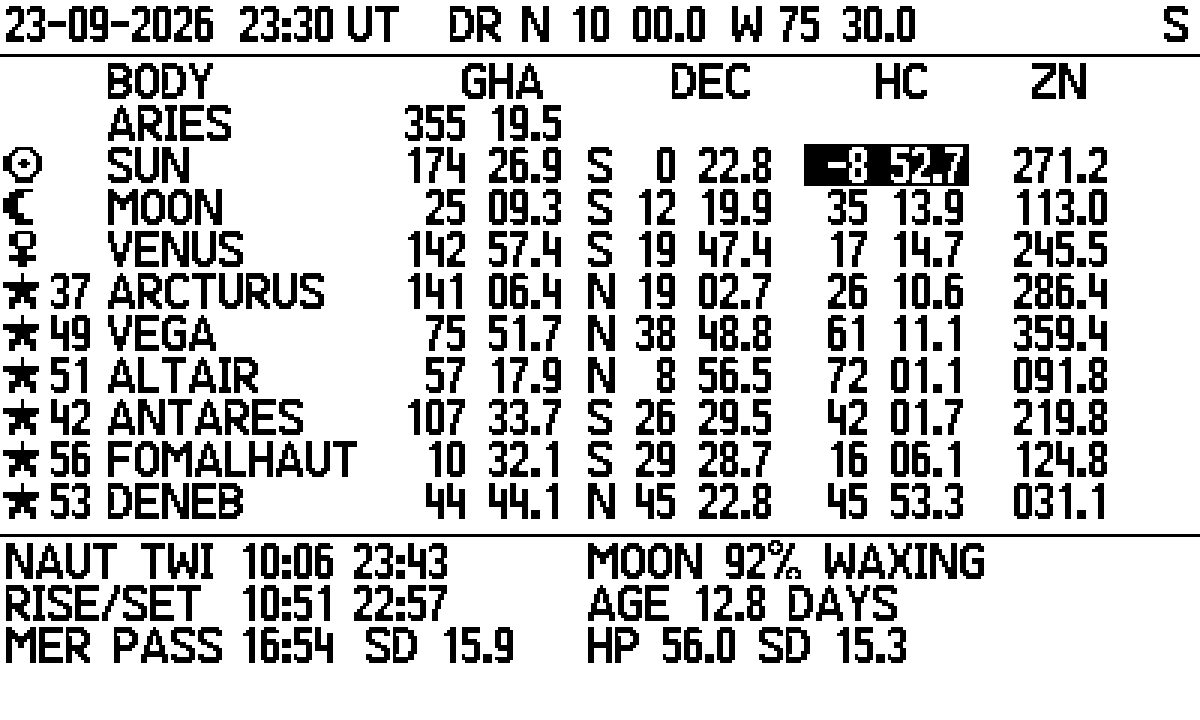
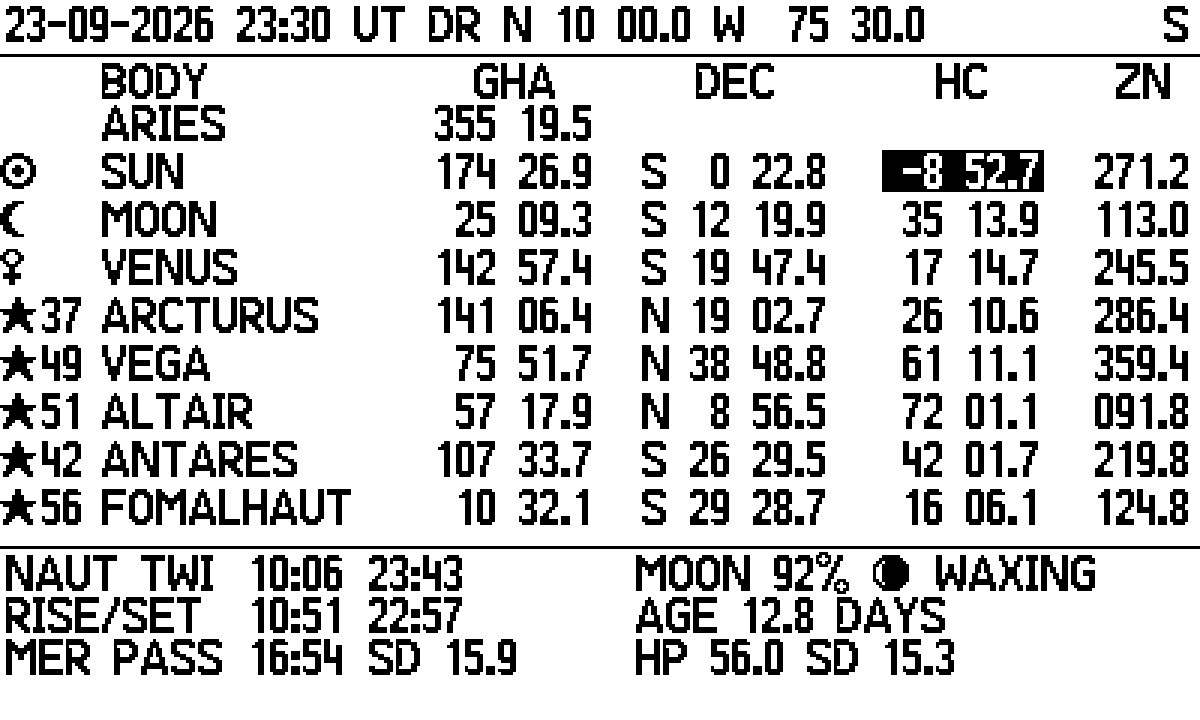
Manual: the ATEXT screens, firmware with ATEXT and GRFNT (#33)
- tools/generators/nav_shots.py: the NAV pictures of the manual (menu, box, INFO, the six views)
  from build/NAVFULL run in the C47 simulator; docs/*.png regenerated (NAV_info unchanged).
- First start: a firmware with ATEXT and GRFNT, conversion with tools/rejig47_atext.py.
- Captions of the views for the new screens (8 bodies, one time and place, SKY names).
- Part 2: its programs use AGRAPH fonts, the NAV files ATEXT. Program map: text and symbol
  routines left out, TGET is N49.

diff --git a/tools/generators/manual_nav.py b/tools/generators/manual_nav.py
@@ -45,7 +45,10 @@ S += [P('Almanac 47', title),
                         'Sun and 58 stars only, with NAVINIT_LITTLE (2000–2050)']],
           [32 * mm, 148 * mm]),
       P('2. First start', h2)] + B([
-      'Convert each text file with <b>rejig</b> (rejig FILE.txt -o FILE.p47) and load it on the C47.',
+      'The C47 needs a firmware with <b>ATEXT</b> and <b>GRFNT</b>: the screens write their text with ATEXT in '
+      'GRFNT 21 (the tinyFont, GRFNT 10, on the charts); only the body symbols are drawn with AGRAPH.',
+      'Convert each text file with <b>python3 tools/rejig47_atext.py FILE.txt</b> (runs rejig and writes the ATEXT / '
+      'GRFNT steps rejig 0.34 does not know; a rejig that knows them converts directly) and load the .p47 on the C47.',
       'The file name is the version: on the calculator the programs are always NAV and INIT. Other builds '
       '(NAVFULL_NOTBL, NAVALL, NAVCOMP) are in build/dev/.',
       'Load one NAV file and one NAVINIT file. <b>XEQ "INIT"</b> once: it builds the matrices and shows MATRICES READY. '
@@ -82,22 +85,23 @@ S += [P('3. Starting NAV', h2),
       P('The hours added with the arrows stay for the other views. New date or position: XEQ "NAV" again.', small)]
 
 S += [PageBreak(), P('5. The views', h2),
-      P('All examples: 26 Sep 2026 14:57 UT, 25° 20′ N 055° 12′ E, unless stated.', small),
+      P('All views: 23 Sep 2026 23:30 UT, 10° N 075° 30′ W (the menu: 26 Sep 2026 14:57 UT, 25° 20′ N 055° 12′ E). '
+        'Every view starts with the same line: date, UT, DR, and T / S (tables / series) at the right.', small),
       pair('ALMF_preview.png', 'HALMV_preview.png',
-           '<b>1 ALMANAC</b> (ALMF): GHA, Dec, Hc, Zn of 10 bodies — the Sun, the Moon and planets above the horizon, '
-           'the brightest stars higher than 10°; twilight, rise/set, meridian passage, Moon phase, HP, SD. '
-           '23 Sep 2026 23:30 UT, 10° N 075° 30′ W.',
+           '<b>1 ALMANAC</b> (ALMF): GHA ARIES, then GHA, Dec, Hc, Zn of 8 bodies — the Sun, the Moon if it is up, '
+           'the first planet above the horizon, the brightest stars higher than 10°; twilight, rise/set, meridian '
+           'passage, the Moon (lit part, phase symbol, age, HP, SD).',
            '<b>2 CHART</b> (HALMV): the sky on the left (Hc up, Zn across, the celestial equator dotted), '
-           'the Hc/Zn table on the right (no ARIES row, no Moon line). Same time and place.'),
+           'the Hc/Zn table of the same 8 bodies on the right.'),
       Spacer(1, 4),
       pair('HORZ_axes_night.png', 'HALMH_preview.png',
-           '<b>4 SKY</b> (HORZ): full-screen chart; the top line names each body in turn (3 s each), UT at the top right, '
-           'DR under it. 23 Sep 2026 03:00 UT, 30° N 0° E.',
-           '<b>5 SPLIT</b> (HALMH): the chart on top, the bodies below down to the bottom of the screen (8 rows). '
-           '26 Sep 2026 14:57 UT, 25° 20′ N 055° 12′ E.'),
+           '<b>4 SKY</b> (HORZ): full-screen chart of the 8 bodies; every second the name of the next one is written '
+           'next to its symbol (here MOON); DAY / TWILIGHT / NIGHT at the bottom.',
+           '<b>5 SPLIT</b> (HALMH): the chart on top, the bodies below down to the bottom of the screen (8 rows).'),
       Spacer(1, 4),
       pair('ANIM_preview.png', 'ALLSKY_preview.png',
-           '<b>6 ANIM</b> (HANIM): the Sun and the Moon moving over 12 hours (24 frames, 1 s each).',
+           '<b>6 ANIM</b> (HANIM): the Sun and the Moon moving on the whole-sky chart over 12 hours (24 frames, '
+           '1 s each, 30 min apart); the first frame.',
            '<b>7 ALLSKY</b>: the whole sky, over the horizon above, under the horizon below: every star, '
            'the Sun, the Moon and the planets; DAY / TWILIGHT / NIGHT.'),
       Spacer(1, 4),

diff --git a/tools/generators/nav_shots.py b/tools/generators/nav_shots.py
@@ -1,0 +1,89 @@
+#!/usr/bin/env python3
+"""nav_shots.py - the pictures of the NAV screens in the C47 manual (docs/), from build/NAVFULL.txt
+run in the C47 simulator (python/c47sim.py): the screens of Oct 2026, text with ATEXT in GRFNT 21.
+
+  NAV_menu.png, NAV_info.png, NAV_busy_box.png      800 x 480, grey (2 x)
+  ALMF_preview.png HALMV_preview.png HORZ_axes_night.png HALMH_preview.png
+  ANIM_preview.png ALLSKY_preview.png                1200 x 720, black on white (3 x)
+
+  python3 tools/generators/nav_shots.py
+"""
+import os, sys, tempfile
+from decimal import Decimal as D
+from PIL import Image
+
+HERE = os.path.dirname(os.path.abspath(__file__))
+ROOT = os.path.dirname(os.path.dirname(HERE))
+sys.path[:0] = [os.path.join(ROOT, 'python'), HERE]
+import c47sim, gennav
+
+DOCS = os.path.join(ROOT, 'docs')
+NAV = os.path.join(ROOT, 'build', 'NAVFULL.txt')
+INIT = os.path.join(ROOT, 'build', 'NAVINIT_FULL.txt')
+MENU_CASE = ('2026.0926', '14.57', '25.20', '55.12')        # the menu, INFO and the box
+VIEW_CASE = ('2026.0923', '23.30', '10.00', '-75.30')       # the views
+# view: its menu key; the frames are the menu, the view, the menu again
+VIEWS = {'ALMF_preview': 72, 'HALMV_preview': 73, 'HORZ_axes_night': 62, 'HALMH_preview': 63,
+         'ANIM_preview': 64, 'ALLSKY_preview': 52}
+
+
+def split(path):
+    progs, cur = [], []
+    for l in open(path, encoding='utf-8').read().split('\n'):
+        if not l.strip():
+            continue
+        cur.append(l)
+        if l == 'END':
+            progs.append(cur); cur = []
+    return progs
+
+
+def run(case, keys, box=False, maxpauses=None, keyskip=False):
+    """NAV with the keys; the frames as sets of (x, row), row 0 at the top. box: the SINKING box
+    makes a frame of its own (its PAUSE 0 becomes PAUSE 2). keyskip: the views run on without a key
+    (SKY writes the next name every second)."""
+    progs = split(INIT) + split(NAV)
+    if box:
+        nav = progs[len(split(INIT))]
+        i = nav.index('LBL 52')
+        j = nav.index('PAUSE 0', i)
+        nav[j] = 'PAUSE 2'
+    t = tempfile.mkdtemp(); files = []
+    for i, pr in enumerate(progs):
+        f = os.path.join(t, 'p%d.txt' % i); open(f, 'w').write('\n'.join(pr) + '\n'); files.append(f)
+    c = c47sim.load(files); c.flags.add(82)
+    c.run('INIT', maxsteps=10 ** 7); c.flags.add(81)
+    for k, v in zip(('DATE', 'UTC', 'LAT', 'LON'), case):
+        c.reg[k] = D(v)
+    c.s = [D(0)] * 4; c.frames = []; c.pix = []; c.keys = list(keys); c.maxpauses = maxpauses; c.keyskip = keyskip
+    try:
+        c.run('NAV', maxsteps=10 ** 8)
+    except StopIteration:
+        pass
+    return [{(x, 239 - y) for y, x in f if 0 <= y < 240 and 0 <= x < 400} for f in c.frames]
+
+
+def save(frame, name, scale, on, off, mode):
+    im = Image.new(mode, (400, 240), off)
+    for x, r in frame:
+        im.putpixel((x, r), on)
+    im.resize((400 * scale, 240 * scale), Image.NEAREST).save(os.path.join(DOCS, name + '.png'))
+    print('docs/%s.png' % name)
+
+
+def main():
+    grey = dict(scale=2, on=20, off=220, mode='L')
+    view = dict(scale=3, on=(0, 0, 0), off=(255, 255, 255), mode='RGB')
+    save(run(MENU_CASE, [82])[0], 'NAV_menu', **grey)
+    save(run(MENU_CASE, [53, 85, 82])[1], 'NAV_info', **grey)
+    fr = run(MENU_CASE, [gennav.DOWN, 82], box=True)   # the box at the start, the menu, the box over it (DOWN), ...
+    save(fr[2], 'NAV_busy_box', **grey)
+    for name, key in VIEWS.items():
+        if key == 62:                                  # SKY: the chart, then the first name next to its body
+            save(run(VIEW_CASE, [key], maxpauses=3, keyskip=True)[2], name, **view)
+        else:
+            save(run(VIEW_CASE, [key, 85, 82])[1], name, **view)
+
+
+if __name__ == '__main__':
+    main()

diff --git a/tools/generators/build_manual.py b/tools/generators/build_manual.py
@@ -42,6 +42,10 @@ S += [PageBreak(), P('Part 2 — the programs one by one', h1),
       P('These programs give the data needed for sight reduction (GHA, SHA, declination, Hc, Zn) and for planning '
         '(sunrise, sunset, twilight, Moon phase, sky picture). They support, and do not replace, the Nautical Almanac. '
         'All results are apparent geocentric positions, as in the almanac. The time argument is UT (UT1): for a sight timed in UTC, add DUT1 (under 0.9 s).'),
+      P('The programs of this part are the single programs of the programs/ folder. Their screens draw the text with '
+        'AGRAPH fonts (PTXS, PTXT, PTXB) and run on any C47 firmware. The NAV files of part 1 use other versions of the '
+        'views (the screens of Oct 2026) that write the text with ATEXT and GRFNT; the calculations are the same. The '
+        'ALMF and HALMV pictures below are those NAV screens.'),
       P('Overview', h2),
       prose_tbl([
           ['Program', 'What it gives', 'Input', 'Output', 'Needs'],
